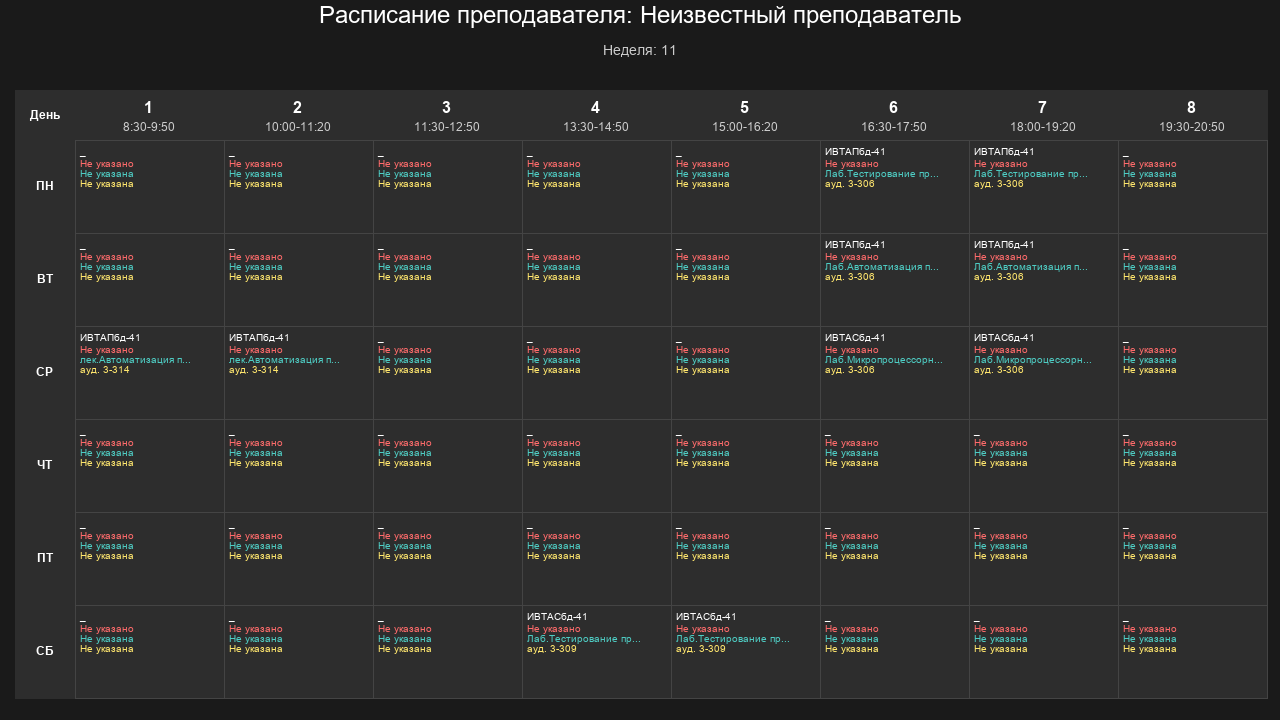
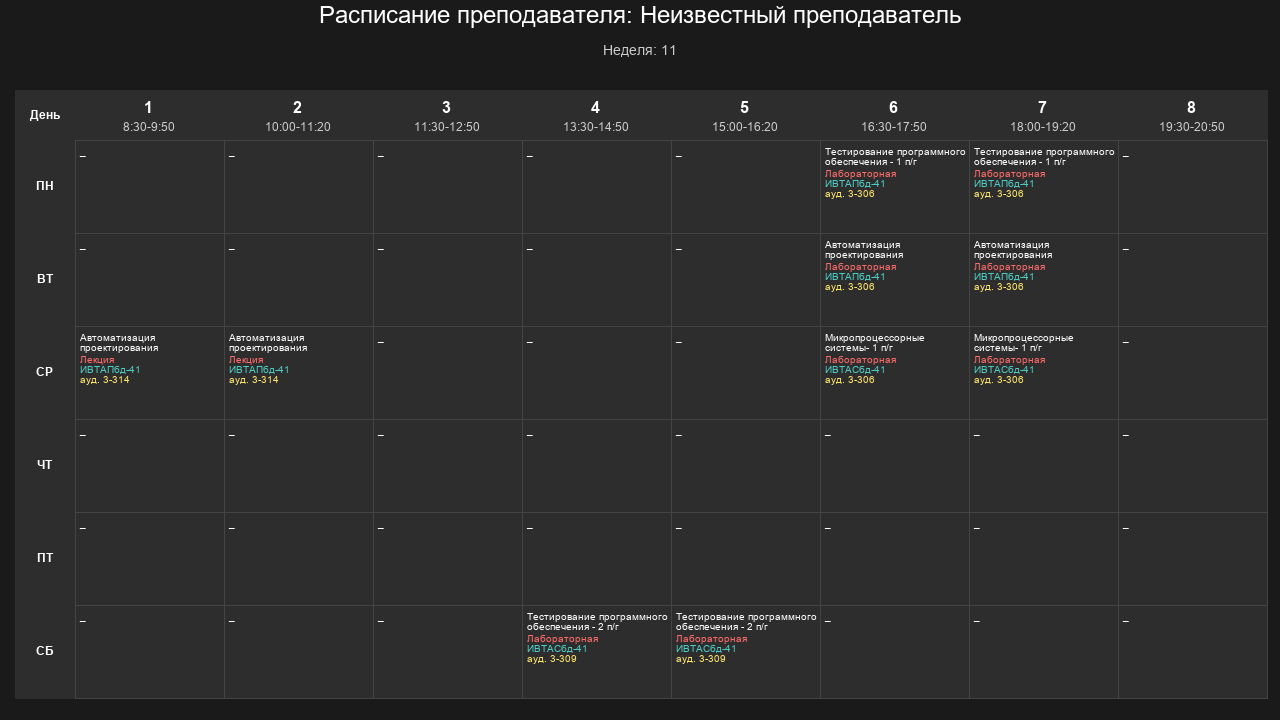
parser update

diff --git a/parsers/UlstuParser.py b/parsers/UlstuParser.py
@@ -460,7 +460,6 @@ class UlstuParser:
             for element in title_elements:
                 text = element.get_text(strip=True)
                 if text and "расписание" in text.lower():
-                    # Извлекаем имя из заголовка
                     name_match = re.search(r'расписание\s+преподавателя\s+(.+)', text, re.IGNORECASE)
                     if name_match:
                         teacher_name = name_match.group(1).strip()
@@ -508,25 +507,22 @@ class UlstuParser:
                     logging.info(f"🔍 Найдено строк в таблице преподавателя: {len(rows)}")
 
                     # Проходим по строкам (дням недели)
-                    for row_idx in range(2, min(len(rows), 8)):  # Строки с 3 по 8 (дни недели)
+                    for row_idx in range(2, min(len(rows), 8)):
                         row = rows[row_idx]
                         cells = row.find_all(["td", "th"])
 
                         if len(cells) < 2:
                             continue
 
-                        day_name = day_names[row_idx - 2] if (row_idx - 2) < len(day_names) else f"День{row_idx - 1}"
+                        day_name = day_names[row_idx - 2]
 
                         # Проходим по ячейкам (парам)
-                        for cell_idx in range(1, min(len(cells), 9)):  # Ячейки с 2 по 9 (пары)
+                        for cell_idx in range(1, min(len(cells), 9)):  # пары 1–8
                             cell = cells[cell_idx]
                             pair_number = cell_idx
                             cell_text = cell.get_text(separator='\n', strip=True)
 
                             if cell_text and cell_text not in ['', '-', ' ']:
-                                logging.info(f"🔍 Анализирую ячейку: {day_name} {pair_number} пара")
-                                logging.info(f"🔍 Содержимое ячейки: {cell_text}")
-
                                 lesson_data = self._parse_teacher_cell_content(cell_text)
                                 if lesson_data:
                                     schedule_item = {
@@ -539,15 +535,31 @@ class UlstuParser:
                                         'classroom': lesson_data['classroom']
                                     }
                                     schedules.append(schedule_item)
-                                    logging.info(
-                                        f"✅ {day_name} {pair_number} пара - {lesson_data['subject']} ({lesson_data['type']}) для {lesson_data['group']} в {lesson_data['classroom']}")
 
                     if schedules:
-                        logging.info(f"✅ Найдено занятий в таблице: {len(schedules)}")
                         break
 
-            logging.info(f"📊 Итог преподавателя: {len(schedules)} занятий для {teacher_name}, неделя {week_number}")
-            return teacher_name, week_number, schedules
+            # --- ДОБАВЛЯЕМ ПУСТЫЕ КЛЕТКИ ---
+            full_schedule = []
+            existing = {(s["day"], s["pair"]): s for s in schedules}
+
+            for d in day_names:
+                for p in range(1, 9):
+                    if (d, p) in existing:
+                        full_schedule.append(existing[(d, p)])
+                    else:
+                        full_schedule.append({
+                            'week': int(week_number),
+                            'day': d,
+                            'pair': p,
+                            'subject': "",
+                            'type': "",
+                            'group': "",
+                            'classroom': ""
+                        })
+
+            logging.info(f"📊 Итог преподавателя: {len(full_schedule)} ячеек.")
+            return teacher_name, week_number, full_schedule
 
         except Exception as e:
             logging.error(f"❌ Ошибка парсинга расписания преподавателя: {e}")
@@ -555,129 +567,118 @@ class UlstuParser:
             logging.error(f"❌ Трассировка преподавателя: {traceback.format_exc()}")
             return "Неизвестный преподаватель", "1", []
 
-    def _parse_teacher_cell_content(self, cell_text):
-        """Парсит содержимое ячейки с занятием преподавателя"""
+    def _parse_teacher_cell_content(self, text):
+        """
+        Парсит содержимое ячейки преподавателя.
+        Возвращает:
+        - subject (название предмета) - БЕЛАЯ ячейка
+        - type (тип занятия) - КРАСНАЯ ячейка
+        - group (номер группы) - ЗЕЛЕНАЯ ячейка
+        - classroom (аудитория) - ЖЕЛТАЯ ячейка
+        """
+
         try:
-            lines = [line.strip() for line in cell_text.split('\n') if line.strip()]
+            if not text or not isinstance(text, str):
+                return {
+                    "subject": "",
+                    "type": "",
+                    "group": "",
+                    "classroom": ""
+                }
+
+            # Разбиваем на строки
+            lines = [l.strip() for l in text.split("\n") if isinstance(l, str) and l.strip()]
             if not lines:
-                return None
+                return {
+                    "subject": "",
+                    "type": "",
+                    "group": "",
+                    "classroom": ""
+                }
 
-            # Первая строка - предмет и тип занятия
-            first_line = lines[0]
+            # ---------- Извлекаем ГРУППУ (ЗЕЛЕНАЯ ячейка) ----------
+            group = ""
+            # Ищем группу в первой строке (обычно там группа)
+            if lines:
+                # Паттерн для групп: буквы-цифры-буквы (например: АТТПбд-21, АИСТбд-11 и т.д.)
+                group_pattern = r'[А-ЯA-Z]{2,}[\w\-]+\d+[\w\-]*'
+                group_match = re.search(group_pattern, lines[0])
+                if group_match:
+                    group = group_match.group(0)
+                else:
+                    # Ищем в других строках
+                    for line in lines:
+                        group_match = re.search(group_pattern, line)
+                        if group_match:
+                            group = group_match.group(0)
+                            break
 
-            # Определяем тип занятия по первой строке
-            lesson_type = "Не указано"  # меняем значение по умолчанию
-            subject = first_line
+            # ---------- Извлекаем ТИП и ПРЕДМЕТ (КРАСНАЯ и БЕЛАЯ ячейки) ----------
+            lesson_type = ""
+            subject = ""
 
-            # Более точные паттерны для определения типа занятия
-            type_patterns = {
-                r'^лек\.?\s*': 'Лекция',
-                r'^пр\.?\s*': 'Практика',
-                r'^лаб\.?\s*': 'Лабораторная',
-                r'^сем\.?\s*': 'Семинар',
-                r'^зач\.?\s*': 'Зачёт',
-                r'^экз\.?\s*': 'Экзамен',
-                r'\bлекция\b': 'Лекция',
-                r'\bпрактика\b': 'Практика',
-                r'\bлабораторная\b': 'Лабораторная',
-                r'\bсеминар\b': 'Семинар',
-                r'\bзачёт\b': 'Зачёт',
-                r'\bэкзамен\b': 'Экзамен'
+            # Словарь для определения типа занятия
+            type_map = {
+                "лек.": "Лекция",
+                "лекция": "Лекция",
+                "лк.": "Лекция",
+                "лаб.": "Лабораторная",
+                "лабораторная": "Лабораторная",
+                "пр.": "Практика",
+                "практика": "Практика",
+                "сем.": "Практика",
             }
 
-            # Сначала ищем точное совпадение в начале строки
-            found_type = False
-            for pattern, lesson_type_name in type_patterns.items():
-                match = re.search(pattern, first_line.lower())
-                if match:
-                    lesson_type = lesson_type_name
-                    # Удаляем найденный тип из названия предмета
-                    subject = re.sub(pattern, '', first_line, flags=re.IGNORECASE).strip()
-                    found_type = True
+            # Ищем тип и предмет в тексте
+            for line in lines:
+                line_lower = line.lower()
+
+                # Ищем тип занятия
+                for key, val in type_map.items():
+                    if key in line_lower:
+                        lesson_type = val
+                        # Извлекаем предмет - убираем тип из строки
+                        subject = line_lower.replace(key, '').strip(' .,-')
+                        # Делаем первую букву заглавной
+                        if subject:
+                            subject = subject[0].upper() + subject[1:]
+                        break
+                if lesson_type:
                     break
 
-            # Если тип не найден в начале, ищем в любом месте строки
-            if not found_type:
-                for pattern, lesson_type_name in type_patterns.items():
-                    if re.search(pattern, first_line.lower()):
-                        lesson_type = lesson_type_name
-                        # Удаляем тип из любого места в строке
-                        subject = re.sub(pattern, '', first_line, flags=re.IGNORECASE).strip()
-                        break
+            # Если не нашли тип, но есть текст - считаем его предметом
+            if not subject and lines:
+                # Берем первую строку, но исключаем группу из нее
+                first_line = lines[0]
+                if group and group in first_line:
+                    subject = first_line.replace(group, '').strip(' ,')
+                else:
+                    subject = first_line
 
-            # Если тип всё ещё не определён, анализируем по ключевым словам в предмете
-            if lesson_type == "Не указано":
-                subject_lower = subject.lower()
-                if any(word in subject_lower for word in ['программирование', 'математика', 'физика', 'химия']):
-                    lesson_type = "Лекция"
-                elif any(word in subject_lower for word in ['упражнен', 'решен', 'задач']):
-                    lesson_type = "Практика"
-                elif any(word in subject_lower for word in ['лабор', 'опыт', 'эксперимент']):
-                    lesson_type = "Лабораторная"
-
-            group = "Не указана"
-            classroom = "Не указана"
-
-            # Анализируем остальные строки для поиска группы и аудитории
-            remaining_lines = lines[1:] if len(lines) > 1 else []
-
-            for line in remaining_lines:
-                # Пропускаем пустые строки
-                if not line.strip():
-                    continue
-
-                # Пытаемся найти группу (формат: АБВ-11, ИВТИИбд-32 и т.д.)
-                group_match = re.search(r'([А-ЯЁ]{2,}[-–]\d+[а-я]*)', line)
-                if group_match and group == "Не указана":
-                    group = group_match.group(1)
-                    # Убираем найденную группу из строки для поиска аудитории
-                    line_without_group = line.replace(group, '').strip()
-
-                    # Ищем аудиторию в оставшемся тексте
-                    classroom_match = self._find_classroom_in_text(line_without_group)
-                    if classroom_match:
-                        classroom = classroom_match
-                    continue
-
-                # Если группа не найдена в этом паттерне, проверяем другие форматы
-                if group == "Не указана":
-                    # Проверяем короткие обозначения групп
-                    short_group_match = re.search(r'([А-ЯЁ]{1,3}[-–]\d+)', line)
-                    if short_group_match:
-                        group = short_group_match.group(1)
-                        line_without_group = line.replace(group, '').strip()
-                        classroom_match = self._find_classroom_in_text(line_without_group)
-                        if classroom_match:
-                            classroom = classroom_match
-                        continue
-
-                # Если группа всё ещё не найдена и строка не похожа на аудиторию, используем её как группу
-                if group == "Не указана" and not self._looks_like_classroom(line):
-                    group = line
-                    continue
-
-                # Ищем аудиторию
-                if classroom == "Не указана":
-                    classroom_match = self._find_classroom_in_text(line)
-                    if classroom_match:
-                        classroom = classroom_match
-
-            # Если после анализа всех строк группа не найдена, но есть вторая строка, используем её
-            if group == "Не указана" and len(lines) > 1 and not self._looks_like_classroom(lines[1]):
-                group = lines[1]
+            # ---------- Извлекаем АУДИТОРИЮ (ЖЕЛТАЯ ячейка) ----------
+            classroom = ""
+            for line in lines:
+                # Ищем аудитории: 8-417, 3-312, 8-310 и т.д.
+                classroom_match = re.search(r'(\d+[\-_]\d+)', line)
+                if classroom_match:
+                    classroom = f"ауд. {classroom_match.group(0)}"
+                    break
 
             return {
-                'subject': subject if subject else "Не указано",
-                'type': lesson_type,
-                'group': group if group else "Не указана",
-                'classroom': classroom
+                "subject": subject or "",  # БЕЛАЯ - название предмета
+                "type": lesson_type or "",  # КРАСНАЯ - тип занятия
+                "group": group or "",  # ЗЕЛЕНАЯ - номер группы
+                "classroom": classroom or ""  # ЖЕЛТАЯ - аудитория
             }
 
         except Exception as e:
             logging.error(f"❌ Ошибка парсинга ячейки преподавателя: {e}")
-            import traceback
-            logging.error(f"❌ Трассировка: {traceback.format_exc()}")
-            return None
+            return {
+                "subject": "",
+                "type": "",
+                "group": "",
+                "classroom": ""
+            }
 
     def _looks_like_classroom(self, text):
         """Проверяет, похож ли текст на описание аудитории"""
@@ -708,38 +709,25 @@ class UlstuParser:
         return False
 
     def _find_classroom_in_text(self, text):
-        """Ищет информацию об аудитории в тексте"""
+        """Ищет и нормализует аудиторию в тексте"""
         try:
-            # Паттерны для аудиторий (в порядке приоритета)
             patterns = [
-                r'ауд\.?\s*([^\s,\n]+)',  # ауд. 123
-                r'аудитория\s*([^\s,\n]+)',  # аудитория 123
-                r'каб\.?\s*([^\s,\n]+)',  # каб. 123
-                r'ком\.?\s*([^\s,\n]+)',  # ком. 123
-                r'(\d+[\-_][\dА-ЯA-Zа-яa-z]+)',  # 3-312, 3_2, 6-НБ8
+                r'ауд\.?\s*([A-Za-zА-Яа-я0-9\-_]+)',  # ауд. 312
+                r'каб\.?\s*([A-Za-zА-Яа-я0-9\-_]+)',  # каб. 312
+                r'(\d+[\-_][A-Za-zА-Яа-я0-9]+)',  # 3-312, 6-НБ8, 3_2
                 r'(\d+\s*-\s*ДОТ)',  # 3-ДОТ
                 r'(\d+_ДОТ)',  # 3_ДОТ
                 r'(\d+\s*ДОТ)',  # 3 ДОТ
-                r'корп\.?\s*(\d+)[\s\-]*([^\s,\n]*)'  # корп. 3-123
             ]
 
             for pattern in patterns:
                 match = re.search(pattern, text, re.IGNORECASE)
                 if match:
-                    if 'корп' in pattern:
-                        # Обработка корпуса и номера аудитории
-                        building = match.group(1)
-                        room = match.group(2) if len(match.groups()) > 1 else ''
-                        if room:
-                            classroom = f"корп. {building}-{room}"
-                        else:
-                            classroom = f"корп. {building}"
-                    else:
-                        classroom = match.group(1).replace(' ', '')
-                        classroom = f"ауд. {classroom.upper()}"
-                    return classroom
+                    room = match.group(1).replace(" ", "")
+                    return f"ауд. {room.upper()}"
 
             return None
+
         except Exception as e:
             logging.error(f"❌ Ошибка поиска аудитории: {e}")
             return None
